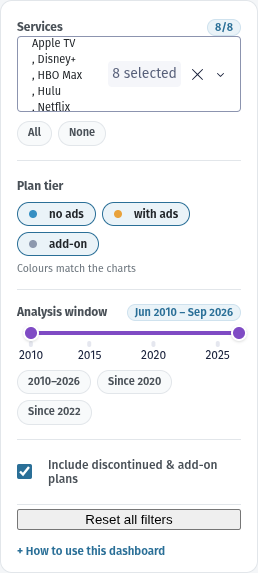
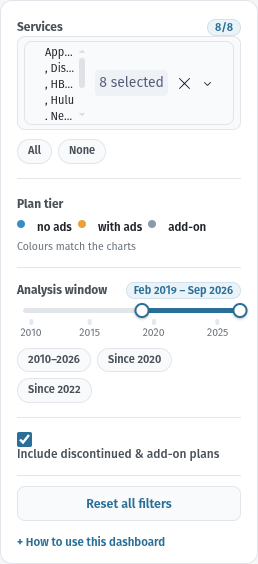
Remove stray component boxes and fix slider contrast
Three separate causes, all Dash 4 component chrome my earlier rules missed:

1. Every dcc.Checklist renders role=listbox, so the dark-mode rule I wrote
   for the dropdown popup (div[role=listbox] { border: 1px solid }) boxed the
   Plan tier chips and the advanced checkbox row. Popup styling is now scoped
   by the .dash-dropdown ancestor instead.
2. dcc.Checklist also wraps options in .dash-options-list, which carries its
   own border and background. Neutralised for the rail only.
3. 'border: none !important' leaves the computed width at 'medium' (1px), so a
   later !important rule re-exposed the border. Switched to explicit
   border-width: 0.

The .btn base rule had also been lost in the rail rewrite, leaving Reset as a
raw white browser button; restored.

Slider: Dash 4 renamed rc-slider-* to dash-slider-*, so the old rules never
applied and the year marks stayed rgba(0,9,38,0.9) -- near-black on the dark
panel, the contrast issue reported. Restyled track, range, thumb, marks and
tooltip; hid the native range inputs Dash overlays (which painted a white bar).
Marks now measure 4.69:1 light and 5.64:1 dark, and dragging still updates
the window.

diff --git a/app/assets/style.css b/app/assets/style.css
@@ -95,6 +95,66 @@ body {
 .field-count:empty { display: none; }
 .field-hint { font-size: 10.5px; color: var(--text-muted); margin-top: 6px; }
 
+/* Dash wraps every Checklist inside .dash-options-list, which carries its own
+   border+background. That is the stray box around "Plan tier" and the checkbox
+   row. The chips/labels provide their own styling, so drop the wrapper chrome. */
+.rail .dash-options-list {
+  border-width: 0 !important;
+  border-style: none !important;
+  background: transparent !important;
+  padding: 0 !important;
+  box-shadow: none !important;
+}
+.rail .dash-options-list-option,
+.rail .dash-options-list-option-text {
+  border-width: 0 !important;
+  border-style: none !important;
+  background: transparent !important;
+  padding: 0 !important;
+}
+/* tier chips style their label; the option wrapper must not add a box */
+.tier-chips .dash-options-list-option,
+.switch-row .dash-options-list-option { display: contents; }
+
+/* the native range inputs Dash renders are invisible but paint a white track */
+/* Dash overlays two native range inputs (one per handle) that paint a white
+   track behind the styled slider. Hide them entirely. */
+.window-slider .dash-input-container,
+.window-slider input[type="range"] {
+  display: none !important;
+}
+
+/* Dash ships default component chrome (light borders, white fills) that shows
+   up as stray boxes around checklists and the dropdown in dark mode. Strip it. */
+/* NB: use border-width:0 rather than `border: none`, because `none` leaves the
+   computed width at `medium` (1px) and later !important rules then re-show it. */
+.rail .dash-checklist,
+.rail .dash-checklist-group,
+.rail .dash-dropdown-content,
+.rail .dash-dropdown-menu {
+  background: transparent !important;
+  border-width: 0 !important;
+  border-style: none !important;
+  box-shadow: none !important;
+}
+.rail .dash-dropdown,
+.rail .dash-dropdown-wrapper {
+  background: var(--surface-2) !important;
+  border: 1px solid var(--border) !important;
+  border-radius: 8px !important;
+  box-shadow: none !important;
+  padding: 4px 6px;
+}
+.rail .dash-dropdown:hover { border-color: var(--accent) !important; }
+/* the vertical scrollbar inside the multi-select pill area */
+.rail .dash-dropdown-value::-webkit-scrollbar { width: 8px; }
+.rail .dash-dropdown-value::-webkit-scrollbar-track { background: transparent; }
+.rail .dash-dropdown-value::-webkit-scrollbar-thumb {
+  background: var(--border-strong); border-radius: 4px;
+}
+.rail .dash-dropdown-value::-webkit-scrollbar-thumb:hover { background: var(--text-muted); }
+.rail .dash-dropdown-value { scrollbar-width: thin; scrollbar-color: var(--border-strong) transparent; }
+
 /* Dash 4 multi-select must wrap inside the rail instead of overflowing it */
 .rail .dash-dropdown,
 .rail .dash-dropdown-wrapper,
@@ -102,6 +162,7 @@ body {
 .rail .dash-dropdown-value {
   display: flex; flex-wrap: wrap; gap: 3px;
   max-height: 74px; overflow-y: auto; min-width: 0;
+  background: transparent !important; border: none !important;
 }
 .rail .dash-dropdown-value-item {
   font-size: 11px; padding: 0 2px; max-width: 100%;
@@ -148,7 +209,15 @@ body {
 }
 .switch-row input { accent-color: var(--accent); width: 15px; height: 15px; cursor: pointer; }
 
-.btn-wide { width: 100%; margin-top: 4px; }
+.btn {
+  font-family: inherit; font-size: 12.5px; font-weight: 600;
+  color: var(--accent); background: var(--surface-2);
+  border: 1px solid var(--border); border-radius: 8px;
+  padding: 9px 14px; cursor: pointer;
+}
+.btn:hover { border-color: var(--accent); background: var(--accent-soft); }
+.btn:active { transform: translateY(1px); }
+.btn-wide { width: 100%; margin-top: 10px; }
 
 .rail-help { margin-top: 14px; }
 .rail-help summary {
@@ -250,33 +319,55 @@ body.dark .dash-dropdown-option[aria-selected="true"] {
   background: var(--accent-soft) !important;
 }
 
-/* Dash 4 dropdown popup: rendered position:fixed in a portal, transparent by default */
-body.dark .dash-options-list,
-body.dark .dash-options-list-option,
-body.dark .dash-options-list-option-text,
-body.dark .dash-dropdown-search-container,
-body.dark .dash-dropdown-search {
-  background: var(--surface-2) !important;
-  color: var(--text) !important;
-  border-color: var(--border) !important;
-}
-body.dark .dash-options-list-option:hover,
-body.dark .dash-options-list-option[aria-selected="true"] {
-  background: var(--accent-soft) !important;
-}
-/* the fixed portal wrapper needs the surface colour, not transparency */
-body.dark .dash-dropdown-wrapper > div[style*="z-index"] { background: transparent !important; }
-body.dark div[role="listbox"] {
+/* Dash 4 dropdown popup (position:fixed portal).
+   Careful: every Checklist is ALSO role="listbox", so popup rules must be
+   scoped by the dash-dropdown ancestor, never by [role=listbox] alone. */
+body.dark .dash-dropdown [role="listbox"] {
   background: var(--surface-2) !important;
   color: var(--text) !important;
   border: 1px solid var(--border) !important;
   border-radius: 8px;
   box-shadow: 0 6px 20px rgba(0,0,0,0.55);
 }
+body.dark .dash-dropdown [role="listbox"] .dash-options-list-option,
+body.dark .dash-dropdown [role="listbox"] .dash-options-list-option-text,
+body.dark .dash-dropdown-search-container,
+body.dark .dash-dropdown-search {
+  background: var(--surface-2) !important;
+  color: var(--text) !important;
+}
+body.dark .dash-dropdown [role="listbox"] .dash-options-list-option:hover,
+body.dark .dash-dropdown [role="listbox"] .dash-options-list-option[aria-selected="true"] {
+  background: var(--accent-soft) !important;
+}
+/* dropdown popup body sits in a portal, outside .rail */
+.dash-dropdown [role="listbox"] .dash-options-list-option { border-width: 0 !important; }
 
-/* range slider */
-body.dark .rc-slider-rail { background: var(--border); }
-body.dark .rc-slider-mark-text { color: var(--text-muted); }
+/* Dash 4 range slider (dash-slider-* classes). The old rc-slider rules never
+   applied, which is why the year marks stayed near-black on the dark panel. */
+.dash-slider-root { padding-bottom: 4px; }
+.dash-slider-track { background: var(--border) !important; height: 5px !important; }
+.dash-slider-range { background: var(--accent) !important; height: 5px !important; }
+.dash-slider-thumb {
+  background: var(--surface) !important;
+  border: 2px solid var(--accent) !important;
+  box-shadow: 0 1px 3px rgba(0,0,0,0.35) !important;
+  width: 15px !important; height: 15px !important;
+}
+.dash-slider-mark {
+  color: var(--text-muted) !important;
+  font-size: 10.5px !important;
+  margin-top: 8px !important;
+}
+.dash-slider-tooltip {
+  background: var(--surface-2) !important;
+  color: var(--text) !important;
+  border: 1px solid var(--accent-border) !important;
+  border-radius: 6px !important;
+  font-size: 11px !important;
+}
+/* spinner inputs Dash overlays on the slider are redundant here */
+.window-slider .dash-input-container { display: none !important; }
 
 /* collapsed / open <details> must not inherit a white background */
 details.more { background: transparent; }
